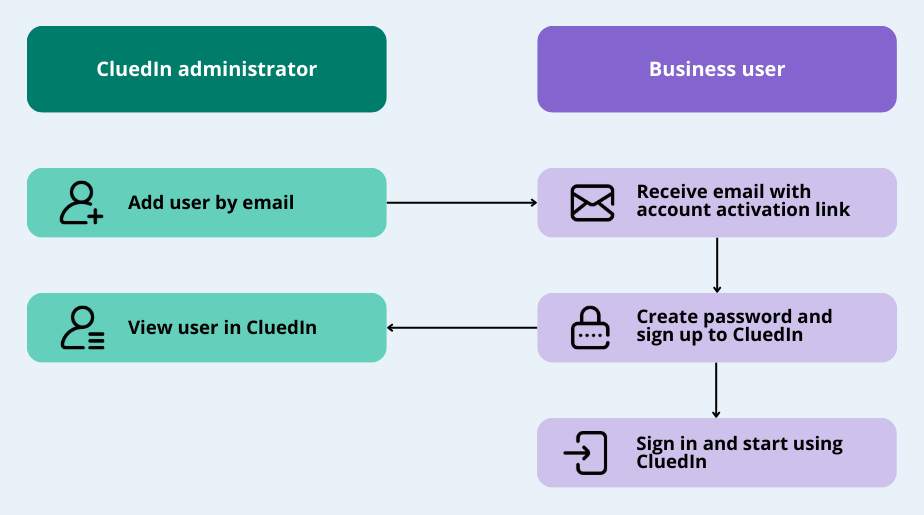
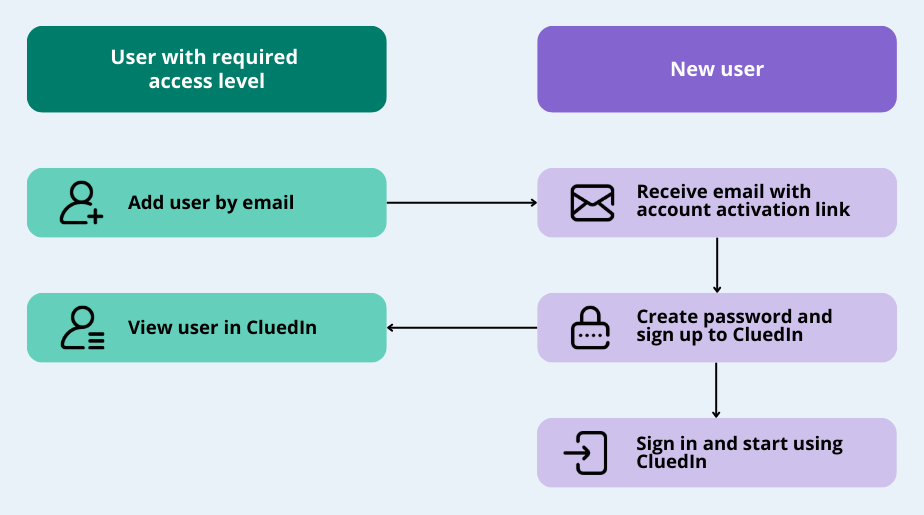
Updated the User Management article

Changed region(s): [[0.0909, 0.0932, 0.3636, 0.1864], [0.697, 0.1243, 0.8485, 0.1553]]

diff --git a/docs/030-administration/020-roles.md b/docs/030-administration/020-roles.md
@@ -43,7 +43,7 @@ To view the role's claims and access levels, select the role. In the first colum
 
 ![roles-1.png](../../assets/images/administration/roles/roles-1.png)
 
-Each role contains the same list of claims, but different access levels. We recommend that you familiarize yourself with the default CluedIn roles, so that you know which role to assign to users in your organization. If default configuration is not suitable for you, you can change access levels in default roles or create your own roles.
+Each role contains the same list of claims, but different access levels. We recommend that you familiarize yourself with the default CluedIn roles, so that you know which role to assign to users in your organization. If the default configuration is not suitable for you, you can change the access levels in the default roles or create your own roles.
 
 In CluedIn, there are the following access levels:
 
@@ -53,12 +53,12 @@ In CluedIn, there are the following access levels:
 
 - **Consulted** – read and write access to the claim. The user will be able to add, edit, or delete items within the claim.
 
-- **Responsible** – this is a placeholder claim level and it gives permission to approve changes within the claim.
+- **Responsible** – read, write, and submit approval requests. This access level is not commonly used in CluedIn.
 
-- **Accountable** – administrator access to the claim.
+- **Accountable** – read, write, submit approval requests, and approve requests. This access level is not commonly used in CluedIn.
 
 Each subsequent access level includes all permissions from the previous access level.
 
 **Note:** In CluedIn, the most commonly used access levels are Informed and Consulted. We are working on making the access levels consistent within the platform. Currently, for some modules, the activity represented by the Responsible and Accountable access levels is the same.
 
-All authorized users have a list of claims and access levels applied to them. If a user has multiple roles with different claim access levels, then the higher access level will be applied to the user. For example, if a user is assigned both the DataArchitect and DeduplicationAdministrator roles, the user will have the Consulted access level to the Clean claim, even though this access level is set to None for the DataArchitect.
+All authorized users have a list of claims and access levels applied to them. If a user has multiple roles with different claim access levels, then the higher access level will be applied to the user.

diff --git a/docs/030-administration/010-user-management.md b/docs/030-administration/010-user-management.md
@@ -13,7 +13,11 @@ tags: ["administration", "users"]
 
 In this article, you will learn how to add and deactivate users in your CluedIn organization.
 
-**_This article is intended for CluedIn administrators._**
+**_This article is intended for users with the OrganizationAdmin role or users with the following claim access level._**
+
+| Section | Claim | Access level |
+|--|--|--|
+| Admin | Users | at least Consulted |
 
 A user is someone who can sign in to CluedIn. The user's access to CluedIn modules and features is defined by the user's roles. For more information, see [Roles](/administration/roles).
 
@@ -25,7 +29,7 @@ You can do the following actions to manage users:
 
 ## Add user
 
-You can add users to CluedIn in one of the following ways:
+Users can be added to CluedIn in one of the following ways:
 
 - [By the user's email address](#add-user-by-email-address)
 
